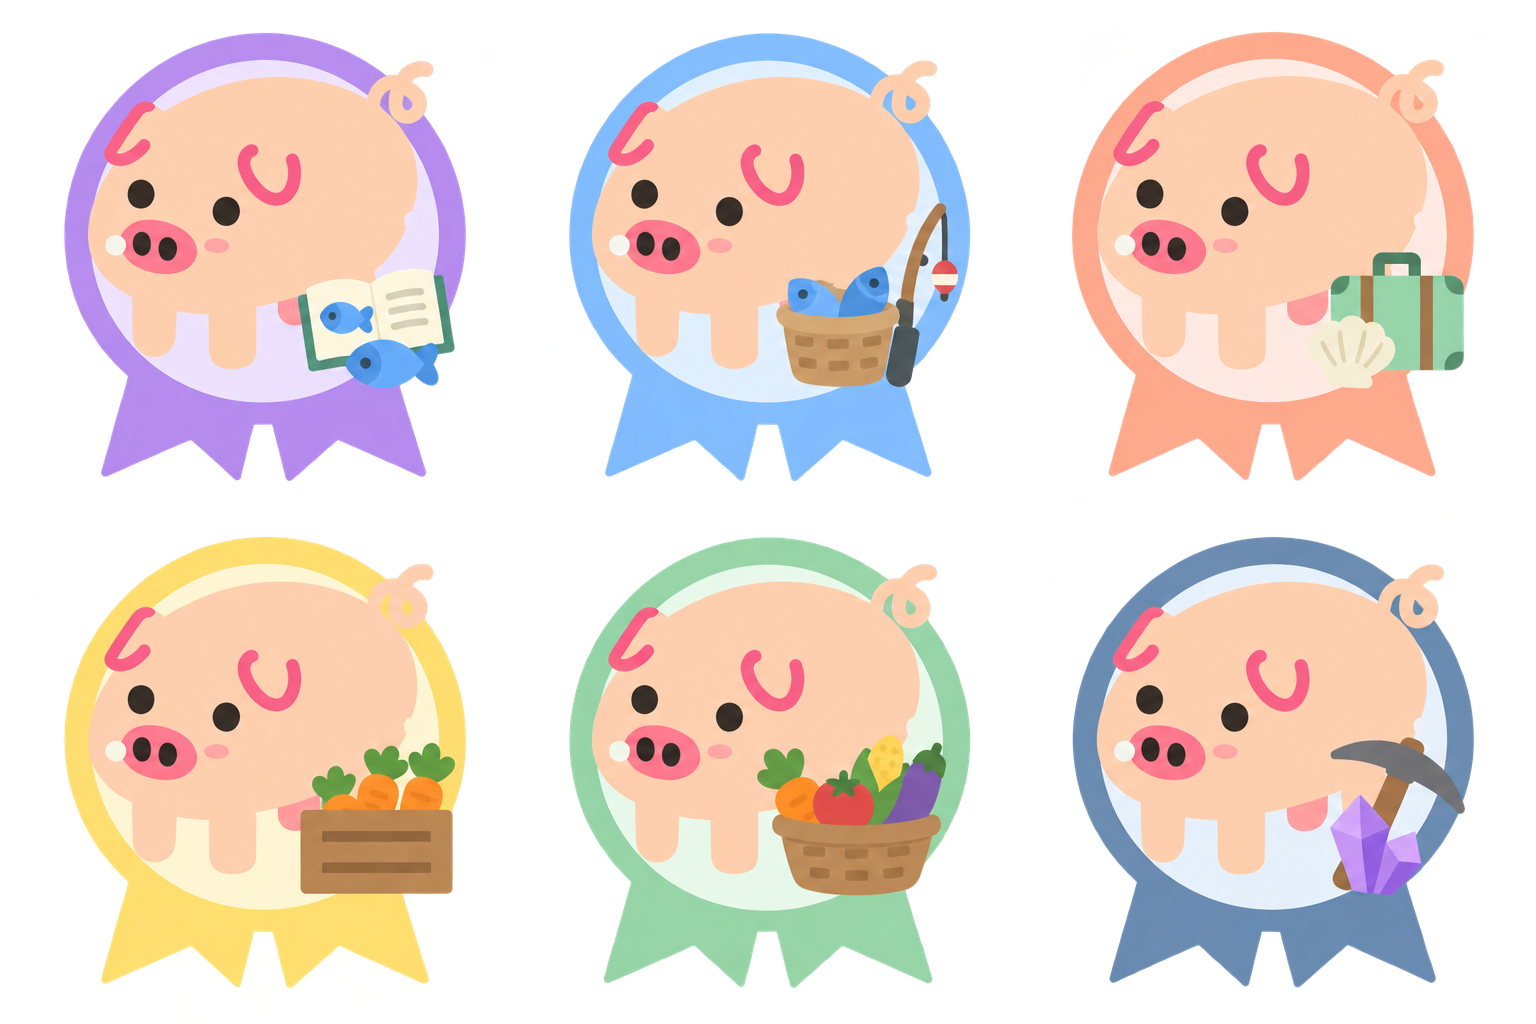
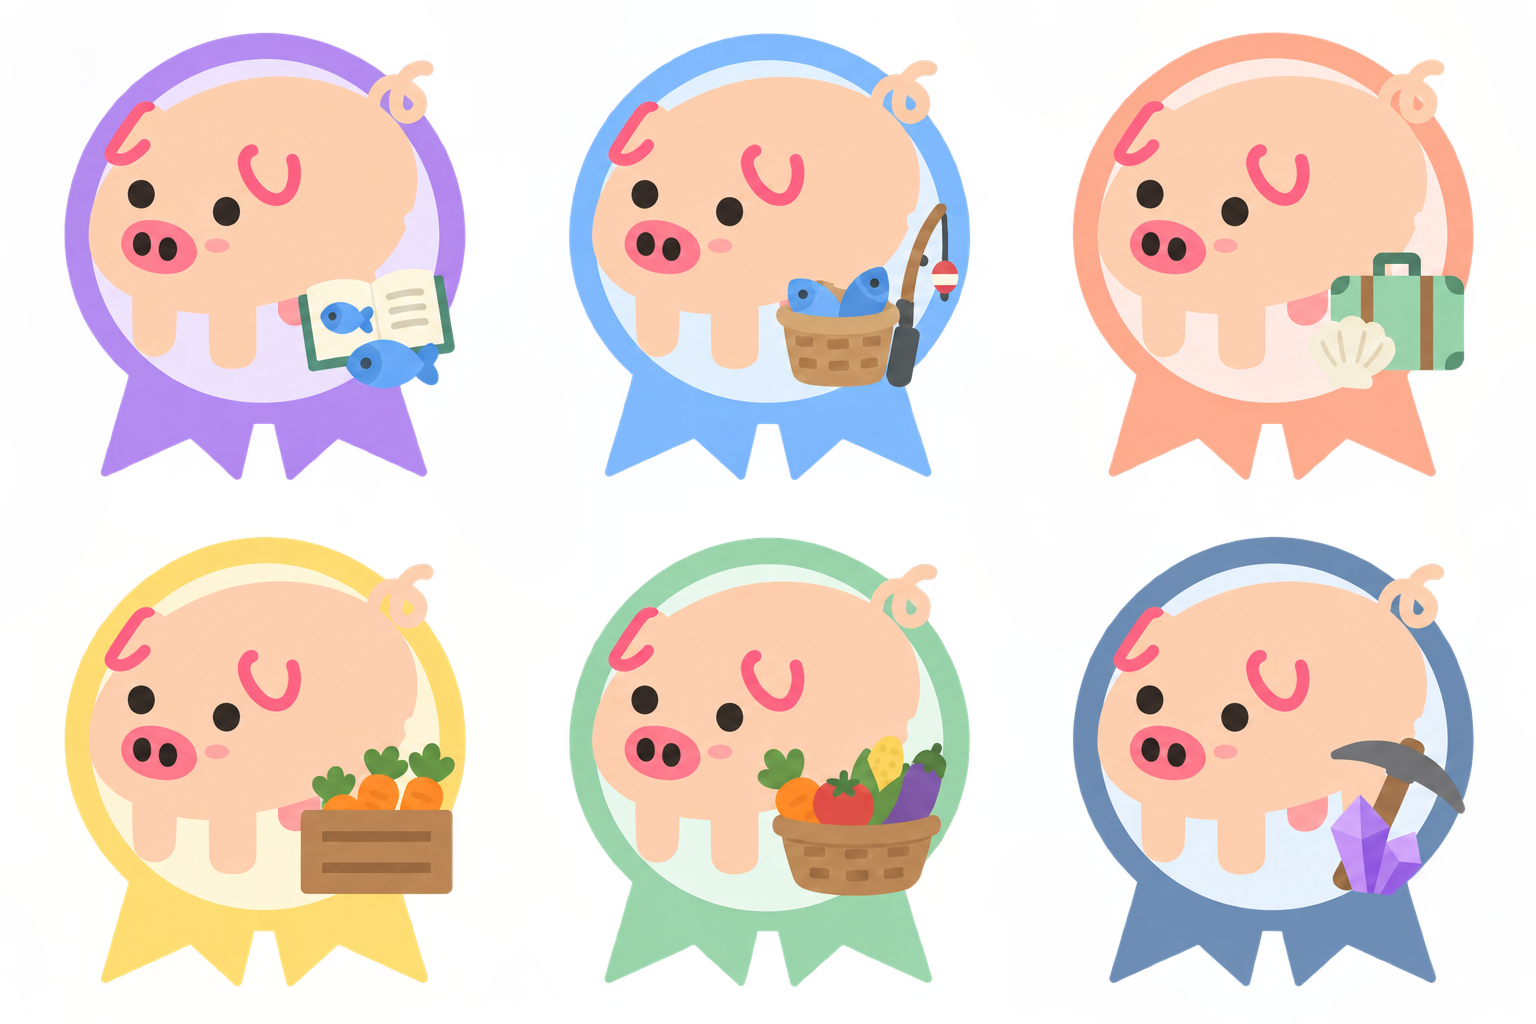
fix(art): 去除六枚新徽章鼻旁的白色高光

diff --git a/packages/pet-core/src/data/art-revisions.js b/packages/pet-core/src/data/art-revisions.js
@@ -7,10 +7,10 @@ export const PIG_ART_REVISIONS = Object.freeze({
   "badge-pig-blindbox-ten": "0c2d076bfd61",
   "badge-pig-clean-ten": "6003eb8595a0",
   "badge-pig-devil": "89cb8d3e629f",
-  "badge-pig-farm-fifteen": "eeac7c4729f5",
+  "badge-pig-farm-fifteen": "3213559ddfa0",
   "badge-pig-farm-first": "5d1652cb0fe0",
   "badge-pig-farm-five": "deb83c643582",
-  "badge-pig-farm-hundred": "de2e97324258",
+  "badge-pig-farm-hundred": "19fe9583ef16",
   "badge-pig-farm-ten": "0149eff14413",
   "badge-pig-first-class": "12a7524937d8",
   "badge-pig-first-fish": "b61fec5ff7ff",
@@ -18,8 +18,8 @@ export const PIG_ART_REVISIONS = Object.freeze({
   "badge-pig-first-meal": "e5fbc9564601",
   "badge-pig-first-trip": "f8ac4b6899d0",
   "badge-pig-fish-five": "5c35eb850433",
-  "badge-pig-fish-hundred": "dc81934f7d66",
-  "badge-pig-fish-twenty": "66f23333664a",
+  "badge-pig-fish-hundred": "fd952ae4a9c0",
+  "badge-pig-fish-twenty": "43e1049042b1",
   "badge-pig-gacha-first": "a57d94f99dd9",
   "badge-pig-gacha-gold": "4996ffc1006d",
   "badge-pig-gacha-machines": "77f0da6b8e33",
@@ -30,10 +30,10 @@ export const PIG_ART_REVISIONS = Object.freeze({
   "badge-pig-mine-deep": "d94d942494c1",
   "badge-pig-mine-first": "c0ff5e419ad4",
   "badge-pig-mine-fossils": "c5a8a6273d0b",
-  "badge-pig-mine-twenty": "a78489d4182f",
+  "badge-pig-mine-twenty": "000a57b81b31",
   "badge-pig-pet-hundred": "d44a2084eeba",
   "badge-pig-play-twenty": "d1bcbd208fe4",
-  "badge-pig-souvenirs-ten": "0a917947ee38",
+  "badge-pig-souvenirs-ten": "51936117880e",
   "badge-pig-souvenirs-three": "7ea9125dab52",
   "badge-pig-trips-ten": "7a993658b297",
   "career-astronaut": "9c4f6a1d855d",

diff --git a/client.js b/client.js
@@ -3437,10 +3437,10 @@
     "badge-pig-blindbox-ten": "0c2d076bfd61",
     "badge-pig-clean-ten": "6003eb8595a0",
     "badge-pig-devil": "89cb8d3e629f",
-    "badge-pig-farm-fifteen": "eeac7c4729f5",
+    "badge-pig-farm-fifteen": "3213559ddfa0",
     "badge-pig-farm-first": "5d1652cb0fe0",
     "badge-pig-farm-five": "deb83c643582",
-    "badge-pig-farm-hundred": "de2e97324258",
+    "badge-pig-farm-hundred": "19fe9583ef16",
     "badge-pig-farm-ten": "0149eff14413",
     "badge-pig-first-class": "12a7524937d8",
     "badge-pig-first-fish": "b61fec5ff7ff",
@@ -3448,8 +3448,8 @@
     "badge-pig-first-meal": "e5fbc9564601",
     "badge-pig-first-trip": "f8ac4b6899d0",
     "badge-pig-fish-five": "5c35eb850433",
-    "badge-pig-fish-hundred": "dc81934f7d66",
-    "badge-pig-fish-twenty": "66f23333664a",
+    "badge-pig-fish-hundred": "fd952ae4a9c0",
+    "badge-pig-fish-twenty": "43e1049042b1",
     "badge-pig-gacha-first": "a57d94f99dd9",
     "badge-pig-gacha-gold": "4996ffc1006d",
     "badge-pig-gacha-machines": "77f0da6b8e33",
@@ -3460,10 +3460,10 @@
     "badge-pig-mine-deep": "d94d942494c1",
     "badge-pig-mine-first": "c0ff5e419ad4",
     "badge-pig-mine-fossils": "c5a8a6273d0b",
-    "badge-pig-mine-twenty": "a78489d4182f",
+    "badge-pig-mine-twenty": "000a57b81b31",
     "badge-pig-pet-hundred": "d44a2084eeba",
     "badge-pig-play-twenty": "d1bcbd208fe4",
-    "badge-pig-souvenirs-ten": "0a917947ee38",
+    "badge-pig-souvenirs-ten": "51936117880e",
     "badge-pig-souvenirs-three": "7ea9125dab52",
     "badge-pig-trips-ten": "7a993658b297",
     "career-astronaut": "9c4f6a1d855d",

diff --git a/docs/art-prompts/achievements-phase-two.md b/docs/art-prompts/achievements-phase-two.md
@@ -19,3 +19,9 @@ Bottom-middle: mint green badge, a small basket of carrot, tomato, corn and eggp
 Bottom-right: slate blue badge, small pickaxe and one purple crystal at lower right. No helmet is needed; keep the pig identical.
 The normal pig itself must look exactly like the reference in all six. These are small 256px game icons; use few clean simple shapes for props matching the reference. No text or numerals. Whole badge silhouettes fully visible, equal size, centered in equal square cells with ample transparent margins. Fully transparent alpha=0 outside badges and in gutters, no glow or shadow.
 ```
+
+## 六处鼻旁高光移除
+
+```text
+Use case: precise-object-edit. Remove ONLY the SIX small solid WHITE DOTS immediately to the LEFT of each pig's pink snout in this six-badge sheet, one dot per pig. Reconstruct the covered tiny area with the same peach face color beneath, seamlessly. Preserve all actual eyes, black nostrils, snout shape, pink blush, ears, body, tail, normal standing legs, accessories, badge backgrounds, ribbons, proportions, positions, colors and transparency EXACTLY. Do not remove any other white areas such as the book pages or medal interior. Do not redraw the pigs or alter anatomy. No new details. Only six tiny white decorative face spots are removed. Keep the same 3 columns by 2 rows canvas dimensions and fully transparent outside-badge regions.
+```

diff --git a/assets/pigs/PROVENANCE.md b/assets/pigs/PROVENANCE.md
@@ -2,7 +2,7 @@
 
 ## 成就第二期（2026-11-01）
 
-新增六枚独立徽章，未替换原有图案。2026-11-02 用内置 image_gen 沿用 badge-pig-farm-ten.png 的正常小猪身体与四肢站姿，变更徽章颜色和身旁道具；从新母版切片，沿用 tools/prepare-pig-art.py 的 prepare 导出256×256透明PNG。逐字提示词、采用轮次和导出方法见 docs/art-prompts/achievements-phase-two.md；源图/成品哈希、切片坐标和真实透明边界见 manifest.json。项目现有Noto Emoji衍生署名继续适用。
+新增六枚独立徽章，未替换原有图案。2026-11-02 用内置 image_gen 沿用 badge-pig-farm-ten.png 的正常小猪身体与四肢站姿，变更徽章颜色和身旁道具，移除新六枚鼻旁的白色高光；从新母版切片，沿用 tools/prepare-pig-art.py 的 prepare 导出256×256透明PNG。逐字提示词、采用轮次和导出方法见 docs/art-prompts/achievements-phase-two.md；源图/成品哈希、切片坐标和真实透明边界见 manifest.json。项目现有Noto Emoji衍生署名继续适用。
 
 2026-10-13 由旧版 1:1 重画，当前只有一套无描边平涂，原有181张，另追加下文两张用户审定微动作。全部使用内置 image_gen 生成/编辑并经审图选定；角色、脸型、比例、姿势、服饰与道具沿用旧版，不以程序删除轮廓线。
 
